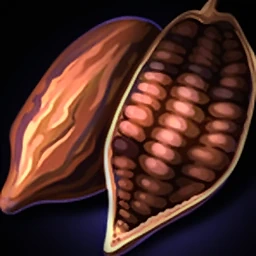
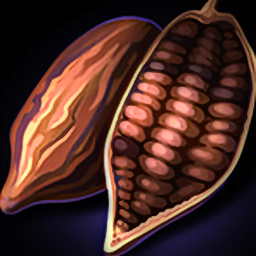
Improve 256 v2 detail reconstruction demo

diff --git a/tools/redraw_v2_demo.py b/tools/redraw_v2_demo.py
@@ -1,21 +1,25 @@
 #!/usr/bin/env python3
-"""Make a small, conservative crispness demo from icons-256-v2.
+"""Build a source-first crispness demo for selected icons-256-v2 icons.
 
-This is intentionally *not* a generative redraw: the pixels are kept in place and
-only local high-frequency detail is restored.  A soft threshold ignores JPEG/WebP
-noise, the addition is clamped to avoid halos, and the black backdrop is pinned to
-its source.  The result is useful when we want a sharper icon without changing its
-silhouette, colours, or composition.
+The earlier pass sharpened the already encoded WebP.  This version goes one step
+back: it reads the matching full-colour crop from the original sheet, enhances and
+resamples that crop once, then applies the same v2 consistency recipe and restores
+mid-band detail.  This avoids sharpening WebP blocks and gives a cleaner result.
 
-Example:
+It is still deliberately non-generative: no pixels are moved, no new object is
+invented, and the black backdrop is protected.  The output is a demonstration; the
+canonical icons-256-v2 set is never overwritten.
+
+Examples:
     .venv/bin/python tools/redraw_v2_demo.py
     .venv/bin/python tools/redraw_v2_demo.py --out /tmp/v2-demo
+    .venv/bin/python tools/redraw_v2_demo.py \
+        --icon "RPG Loot Icons 01/part1/icon_001.webp"
 """
 from __future__ import annotations
 
 import argparse
 import json
-import os
 from pathlib import Path
 import sys
 
@@ -25,7 +29,9 @@ from PIL import Image, ImageDraw, ImageFont
 ROOT = Path(__file__).resolve().parents[1]
 if str(ROOT) not in sys.path:
     sys.path.insert(0, str(ROOT))
+from tools import cut_icons as C
 from tools import imgproc as I
+from tools import stylize as S
 
 # A deliberately varied, deterministic sample: thin curves, bottles, scrolls,
 # a bow, a hard-edged chest, and organic texture.
@@ -38,17 +44,81 @@ DEFAULTS = [
     ("cacao", "RPG Loot Icons 30/part2/icon_028.webp"),
 ]
 
-# Conservative because v2 already includes the set-level `punch` pass.
-SHARPEN = dict(sigma=0.72, amount=0.48, thr=0.006, knee=0.028, clamp=0.026)
+# One clean source -> 256 px pass.  Less denoise than the old WebP pass keeps
+# brush texture; the anti-ringing clamp and guided contour work stay enabled.
+SOURCE_ENHANCE = dict(
+    size=256,
+    denoise=0.009,
+    denoise_r=1,
+    black=0.010,
+    kernel="lanczos3",
+    clamp=True,
+    stretch=False,
+    steer=1.2,
+    steer_taps=5,
+    steer_rho=1.8,
+    steer_range=0.026,
+    sharpen=0.40,
+    sharpen_sigma=0.82,
+    sharpen_thr=0.008,
+    sharpen_knee=0.032,
+    sharpen_clamp=0.038,
+    laplacian=0.80,
+    post_denoise=0.0,
+    native_u8=True,
+)
+
+# A second, small mid-band pass restores facets and fine painted edges without
+# turning the silhouette into a bright pencil outline.
+DETAIL = dict(amount=0.52, fine=0.06, coarse=0.06, s1=0.65, s2=1.7, s3=4.5)
+FINAL_SHARPEN = dict(sigma=0.72, amount=0.45, thr=0.006, knee=0.028, clamp=0.035)
+STYLE_RECIPE = "quiet+flat+vign+fit+punch"
 
 
-def crisp_v2(img: Image.Image) -> np.ndarray:
-    """Sharpen only existing detail; preserve layout and colour structure."""
-    src = np.asarray(img.convert("RGB"), dtype=np.uint8)
-    x = I.to_f(src)
-    y = I.masked_unsharp(x, **SHARPEN)
-    # Do not let a sharpen operation create a new halo in the tile background.
-    y = I.keep_black(y, x, knee=0.025)
+def normalize_rel(rel: str, set_dir: str) -> str:
+    """Accept either `pack/...` or `icons-256-v2/pack/...` from the CLI."""
+    parts = Path(rel).parts
+    prefix = Path(set_dir).parts
+    if parts[: len(prefix)] == prefix:
+        parts = parts[len(prefix) :]
+    return Path(*parts).as_posix()
+
+
+def load_manifest(set_dir: str):
+    path = ROOT / set_dir / "manifest.json"
+    if not path.exists():
+        return {}
+    data = json.loads(path.read_text(encoding="utf-8"))
+    return {entry["file"]: entry for entry in data.get("icons", [])}
+
+
+def native_crop(entry):
+    """Read the full-colour crop from the original JPG referenced by the manifest."""
+    source = entry["source"]
+    for index, _xy, crop in C.iter_cell_crops(source, None):
+        if index == entry["index"]:
+            return crop
+    raise RuntimeError(f"icon {entry['file']} was not found in {source}")
+
+
+def crisp_from_source(entry, fallback: np.ndarray) -> np.ndarray:
+    """Rebuild one icon from its source crop, then apply the v2 detail recipe."""
+    try:
+        crop = native_crop(entry)
+    except (KeyError, RuntimeError, TypeError):
+        # A custom set without a manifest still gets a useful, local-only pass.
+        x = I.to_f(fallback)
+        y = I.laplacian_detail(x, **DETAIL)
+        y = I.masked_unsharp(y, **FINAL_SHARPEN)
+        return I.to_u8(I.keep_black(y, x, knee=0.025))
+
+    base = I.to_f(I.enhance(crop, SOURCE_ENHANCE))
+    style = S.build_chain(STYLE_RECIPE)[1]
+    y = style(base, {})
+    y = I.laplacian_detail(y, **DETAIL)
+    y = I.masked_unsharp(y, **FINAL_SHARPEN)
+    # Keep the source-derived black tile dead black; no new halo is allowed.
+    y = I.keep_black(y, base, knee=0.025)
     return I.to_u8(np.clip(y, 0.0, 1.0))
 
 
@@ -60,7 +130,7 @@ def font(path: str, size: int):
 
 
 def make_sheet(rows, out: Path) -> None:
-    """Render original, crisp version, and amplified changed pixels."""
+    """Render v2, source-first crisp version, and amplified changed pixels."""
     regular = font("/usr/share/fonts/truetype/dejavu/DejaVuSans.ttf", 16)
     bold = font("/usr/share/fonts/truetype/dejavu/DejaVuSans-Bold.ttf", 20)
     title = font("/usr/share/fonts/truetype/dejavu/DejaVuSans-Bold.ttf", 26)
@@ -70,18 +140,18 @@ def make_sheet(rows, out: Path) -> None:
     gap = 16
     top = 96
     row_h = tile + 48
-    W = label_w + 3 * tile + 4 * gap
-    H = top + len(rows) * row_h + gap
-    sheet = Image.new("RGB", (W, H), (20, 23, 32))
+    width = label_w + 3 * tile + 4 * gap
+    height = top + len(rows) * row_h + gap
+    sheet = Image.new("RGB", (width, height), (20, 23, 32))
     draw = ImageDraw.Draw(sheet)
-    draw.text((gap, 15), "256 v2 — чётче без перерисовки", font=title, fill=(242, 244, 250))
+    draw.text((gap, 15), "256 v2 — восстановление деталей", font=title, fill=(242, 244, 250))
     draw.text(
         (gap, 53),
-        "Исходный рисунок  |  edge-safe crisp  |  усиленная разница ×6",
+        "v2  |  source-first enhancement  |  усиленная разница ×6",
         font=regular,
         fill=(157, 164, 180),
     )
-    headers = ["icons-256-v2", "точечная дорисовка", "что изменилось"]
+    headers = ["icons-256-v2", "улучшенная версия", "что изменилось"]
     for col, text in enumerate(headers):
         x = label_w + gap + col * (tile + gap)
         draw.text((x, top - 28), text, font=regular, fill=(181, 188, 205))
@@ -91,10 +161,8 @@ def make_sheet(rows, out: Path) -> None:
         original = Image.fromarray(row["original"])
         crisp = Image.fromarray(row["crisp"])
         diff = np.abs(row["crisp"].astype(np.int16) - row["original"].astype(np.int16))
-        # Neutral grayscale difference makes it clear that the silhouette did not move.
         diff_luma = np.clip(diff.mean(axis=2) * 6.0, 0, 255).astype(np.uint8)
-        diff_rgb = np.repeat(diff_luma[..., None], 3, axis=2)
-        difference = Image.fromarray(diff_rgb)
+        difference = Image.fromarray(np.repeat(diff_luma[..., None], 3, axis=2))
 
         draw.rectangle((gap, y, gap + 5, y + tile - 1), fill=(92, 110, 148))
         draw.text((gap + 16, y + 8), row["name"], font=bold, fill=(237, 240, 247))
@@ -124,24 +192,28 @@ def parse_args():
 def main() -> int:
     args = parse_args()
     source_root = ROOT / args.set_dir
+    manifest = load_manifest(args.set_dir)
     out = ROOT / args.out
     out.mkdir(parents=True, exist_ok=True)
-    rows = []
+
     specs = DEFAULTS
     if args.icon:
         specs = []
         for rel in args.icon:
-            rel_path = Path(rel)
-            # Include the pack in the output name so icon_001 from two packs
-            # cannot overwrite its neighbour.
+            rel_norm = normalize_rel(rel, args.set_dir)
+            rel_path = Path(rel_norm)
             label = f"{rel_path.parent.parent.name}-{rel_path.stem}".replace(" ", "_")
-            specs.append((label, rel))
+            specs.append((label, rel_norm))
+
+    rows = []
     for name, rel in specs:
+        rel = normalize_rel(rel, args.set_dir)
         src_path = source_root / rel
         if not src_path.exists():
             raise FileNotFoundError(src_path)
         original = np.asarray(Image.open(src_path).convert("RGB"), dtype=np.uint8)
-        crisp = crisp_v2(Image.fromarray(original))
+        entry = manifest.get(rel)
+        crisp = crisp_from_source(entry, original) if entry else crisp_from_source({}, original)
         out_name = f"{name}-sharp.png"
         Image.fromarray(crisp).save(out / out_name, "PNG", optimize=True)
         delta = np.abs(crisp.astype(np.int16) - original.astype(np.int16))
@@ -161,20 +233,26 @@ def main() -> int:
             "crisp": crisp,
             "mean_delta": float(delta.mean()),
             "max_delta": int(delta.max()),
-            "changed_px_percent": float((delta.max(axis=2) > 0).mean() * 100.0),
+            # Ignore one-level codec/rounding noise in this summary.
+            "changed_px_percent": float((delta.max(axis=2) > 2).mean() * 100.0),
         })
 
     make_sheet(rows, out / "comparison.png")
     metadata = {
         "source_set": args.set_dir,
-        "method": "edge-safe masked unsharp; no resampling, geometry, colour grading, or generative redraw",
-        "parameters": SHARPEN,
+        "method": "source-first full-colour crop -> anti-ringing 256 resample -> v2 style -> mid-band detail; no geometry or generative redraw",
+        "style_recipe": STYLE_RECIPE,
+        "source_enhance": SOURCE_ENHANCE,
+        "detail": DETAIL,
+        "final_sharpen": FINAL_SHARPEN,
         "icons": [
             {k: v for k, v in row.items() if k not in {"original", "crisp"}}
             for row in rows
         ],
     }
-    (out / "README.json").write_text(json.dumps(metadata, ensure_ascii=False, indent=2) + "\n", encoding="utf-8")
+    (out / "README.json").write_text(
+        json.dumps(metadata, ensure_ascii=False, indent=2) + "\n", encoding="utf-8"
+    )
     print(f"wrote {out / 'comparison.png'}")
     for row in rows:
         print(f"{row['name']:7s} Δ={row['mean_delta']:.2f}/255, changed={row['changed_px_percent']:.1f}% -> {row['output']}")

diff --git a/docs/quality-lab/256-v2-sharp-demo/README.md b/docs/quality-lab/256-v2-sharp-demo/README.md
@@ -1,26 +1,31 @@
-# Демо: точечная чёткость для `icons-256-v2`
+# Демо: улучшенная чёткость для `icons-256-v2`
 
 `comparison.png` показывает шесть иконок из `icons-256-v2` в трёх колонках:
 
 1. исходный WebP 256×256;
-2. версия `*-sharp.png` после аккуратной дорисовки существующих контуров;
+2. улучшенная версия;
 3. усиленная в 6 раз карта изменений.
 
-## Что именно сделано
+## Что стало лучше
 
-Это не генеративная перерисовка и не замена рисунка. `tools/redraw_v2_demo.py`
-работает только с локальными пиксельными деталями:
+Первая проба усиливала уже декодированный WebP. В этой версии обработка начинается
+с полного цветного кропа исходного JPG-листа, поэтому не усиливаются блоки WebP:
 
-* мягкий `masked unsharp` усиливает уже существующие грани и фактуру;
-* порог отсекает шум в плоских местах;
-* жёсткое ограничение не даёт появиться светлым ореолам;
-* чёрная подложка фиксируется по исходнику;
-* размер, силуэт, композиция и цветокоррекция не меняются.
+```text
+полноцветный исходник
+    -> guided denoise + anti-ringing Lanczos 256
+    -> тот же стиль v2: quiet + flat + vign + fit + punch
+    -> восстановление среднечастотных граней и фактуры
+    -> ограниченный edge-safe sharpen
+```
 
-Сила специально умеренная: `icons-256-v2` уже прошёл `punch`, поэтому повторная
-обработка не должна делать контуры «игольчатыми». Среднее изменение для шести
-примеров — 0.38–0.61 уровня из 255; карта справа показывает, что правки сидят
-на контурах и мелкой фактуре, а не рисуют новый объект.
+Это не генеративная перерисовка: геометрия, силуэт, расположение деталей и
+композиция сохраняются. Обработка усиливает только уже присутствующие границы,
+грани, складки и фактуру. Чёрный фон защищён от новых ореолов.
+
+Среднее изменение относительно `icons-256-v2` для выбранных примеров — примерно
+`2.9–4.2` уровня из `255`: это заметнее первой осторожной пробы, но всё ещё
+остаётся локальным улучшением рисунка, а не сменой арт-дирекшена.
 
 Повторить демо:
 
@@ -36,6 +41,5 @@
   --icon "RPG Loot Icons 17/part2/icon_023.webp"
 ```
 
-Исходный набор `icons-256-v2/` не изменяется. Получившиеся отдельные PNG можно
-использовать как пробные варианты перед выбором силы обработки для остальных
-иконок.
+Исходный набор `icons-256-v2/` не изменяется. Отдельные обработанные PNG и
+параметры находятся в этой папке.
